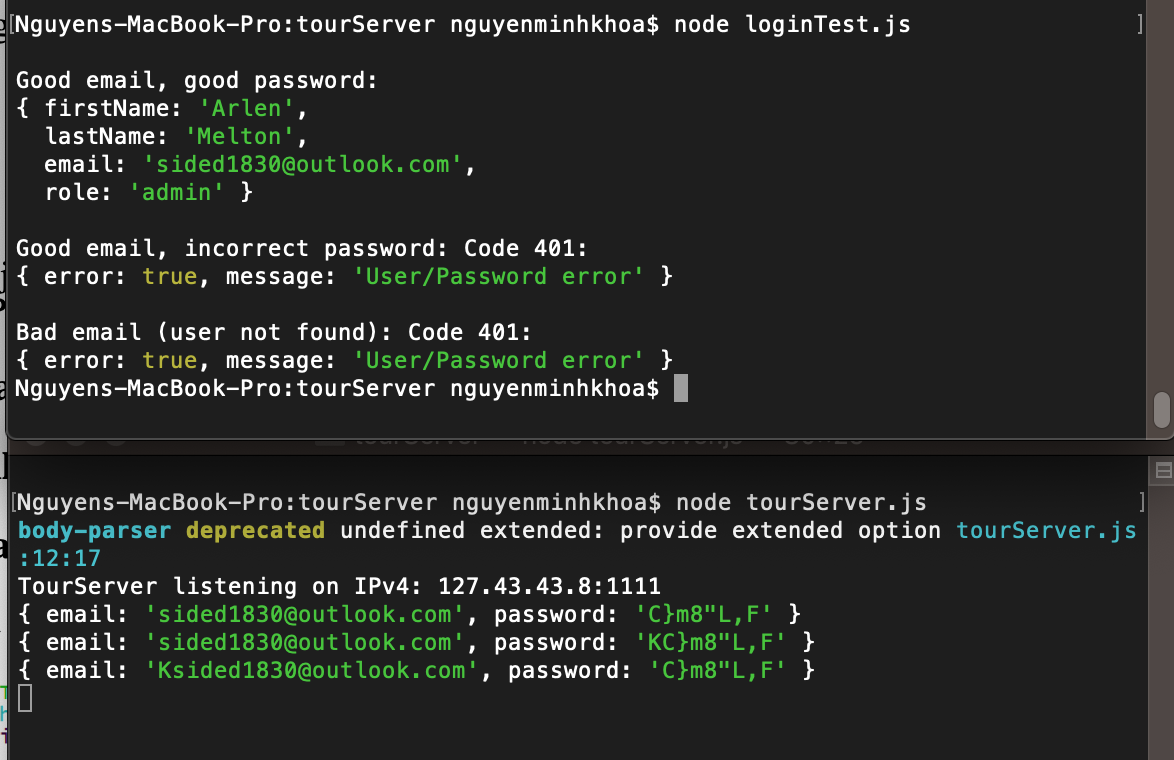
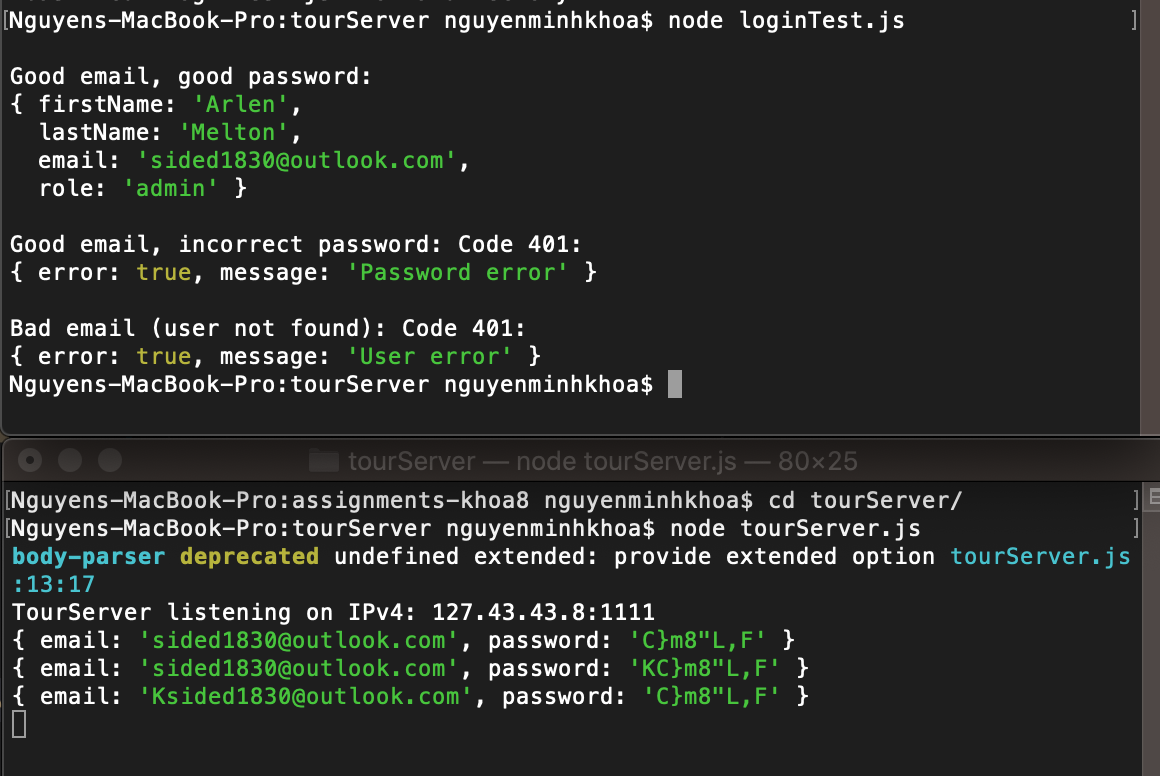
update

Changed region(s): [[0.0, 0.0, 1.0, 1.0]]

diff --git a/tourServer/tourServer.js b/tourServer/tourServer.js
@@ -29,21 +29,18 @@ app.post('/login', function (req, res) {
     if (user) {
     	let verified = bcrypt.compareSync(password, user.passHash);
     	if (verified) {
-    	res.json({
-        "firstName": user.firstName,
-        "lastName" : user.lastName,
-        "email": user.email,
-        "role": user.role
-    });
-        res.end();
-    } else {
-        res.status(401).json({error: true, message: "User/Password error"});
+    	    res.json({
+            "firstName": user.firstName,
+            "lastName" : user.lastName,
+            "email": user.email,
+            "role": user.role
+            });
+        } else {
+            res.status(401).json({error: true, message: "Password error"});
     	}
-	}
-    else {
-        res.status(401).json({error: true, message: "User/Password error"});
-    }
-    
+	} else {
+        res.status(401).json({error: true, message: "User error"});
+    }   
 });
 
 //app.get('/tours', (req, res) => res.send(data))

diff --git a/README.md b/README.md
@@ -119,21 +119,18 @@ app.post('/login', function (req, res) {
     if (user) {
     	let verified = bcrypt.compareSync(password, user.passHash);
     	if (verified) {
-    	res.json({
-        "firstName": user.firstName,
-        "lastName" : user.lastName,
-        "email": user.email,
-        "role": user.role
-    });
-        res.end();
-    } else {
-        res.status(401).json({error: true, message: "User/Password error"});
+    	    res.json({
+            "firstName": user.firstName,
+            "lastName" : user.lastName,
+            "email": user.email,
+            "role": user.role
+            });
+        } else {
+            res.status(401).json({error: true, message: "Password error"});
     	}
-	}
-    else {
-        res.status(401).json({error: true, message: "User/Password error"});
-    }
-    
+	} else {
+        res.status(401).json({error: true, message: "User error"});
+    }   
 });
 ```
 ## Question 5
